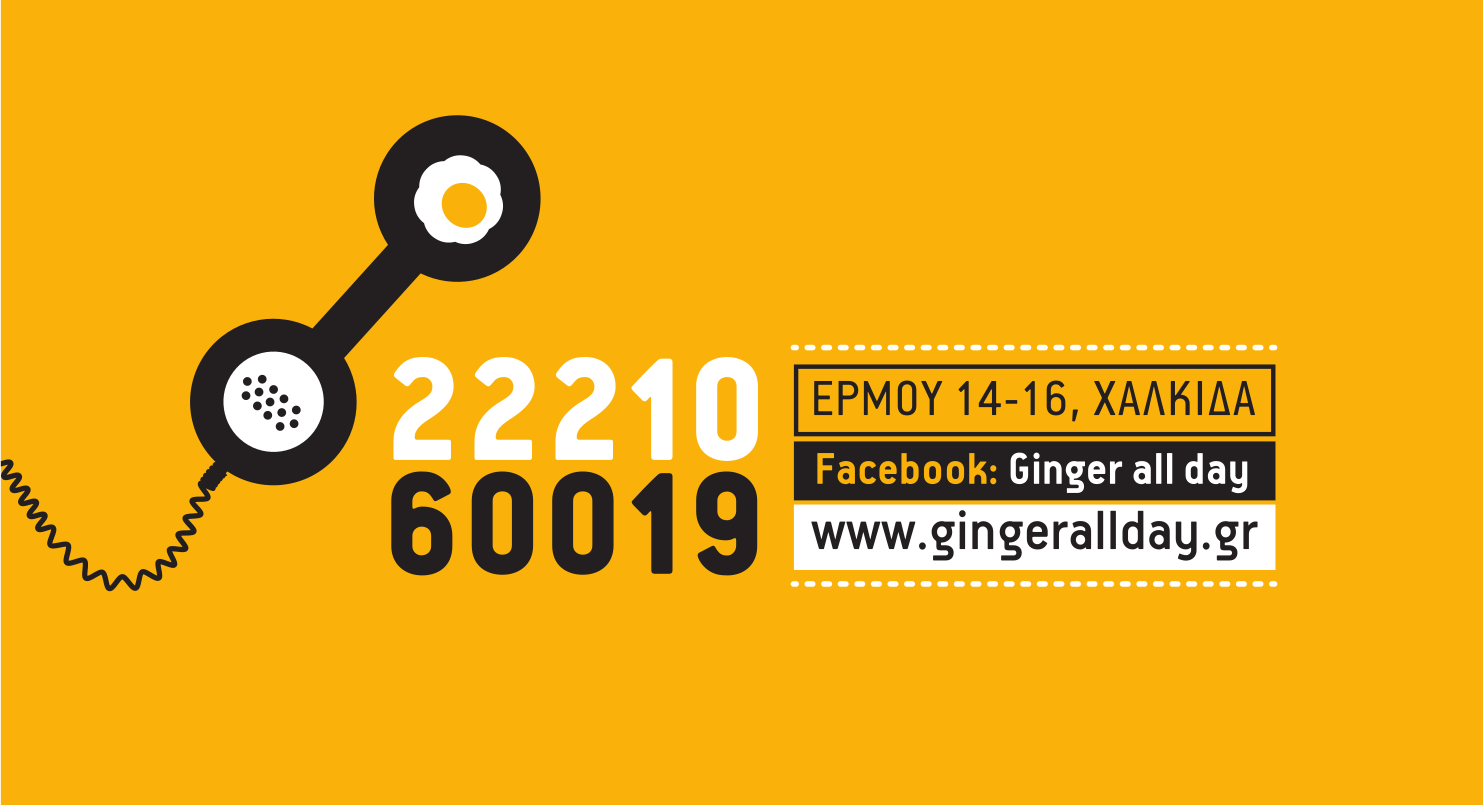
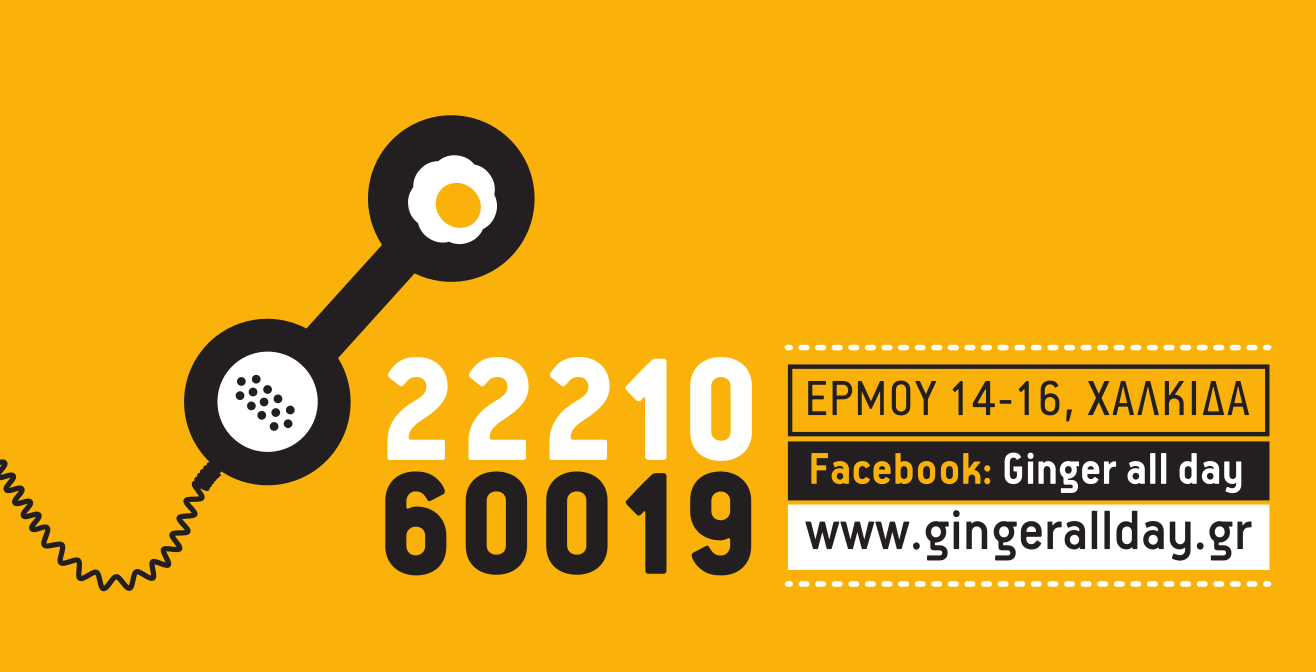
update

Changed region(s): [[0.0, 0.125, 0.9658, 0.875], [0.0, 0.5625, 0.0312, 0.6562]]

diff --git a/index.html b/index.html
@@ -27,19 +27,21 @@
     </div>
     <div class="card bg-warning border-0 card-cap mt-1">
       <div class="card-body">
-        <img src="img/tag.png" class="img-fluid" alt="ginger all day">
-        Λαχταριστές ομελέτες από το πρωί,<br>
-        δροσερές σαλάτες,<br>
-        χειροποίητα σάντουιτς με φρυγανισμένο ψωμί,<br>
-        burgers, γλυκίσματα +<br>
-        <h2 class="my-3"><strong>μοναδικές ποικιλίες καφέ</strong></h2>
-        έρχονται και στο χώρο σου!
+        <div class="col-md-6 ml-auto">
+          <img src="img/tag.png" class="img-fluid" alt="ginger all day">
+          Λαχταριστές ομελέτες από το πρωί,<br>
+          δροσερές σαλάτες,<br>
+          χειροποίητα σάντουιτς με φρυγανισμένο ψωμί,<br>
+          burgers, γλυκίσματα +<br>
+          <h2 class="my-3"><strong>μοναδικές ποικιλίες καφέ</strong></h2>
+          έρχονται και στο χώρο σου!
+        </div>
       </div>
     </div>
     <div class="card mt-1 mb-5 bg-white border-0 bg-phone">
       <div class="card-body p-0">
-        <div class="text-right pt-5 pr-5">
-          <h4 class="bg-white px-4 py-2 border border-dark d-inline-block" style="width:305px;cursor:pointer;" data-glf-cuid="31559792-08d4-4547-bd64-9d955fa58e9f" data-glf-ruid="ee9dccdf-eeb6-40f5-8dd4-0f6da8c518e3">
+        <div class="text-center pt-4 col-md-5 ml-auto mr-2">
+          <h4 class="px-4 py-2 border border-dark d-inline-block" style="cursor:pointer;" data-glf-cuid="31559792-08d4-4547-bd64-9d955fa58e9f" data-glf-ruid="ee9dccdf-eeb6-40f5-8dd4-0f6da8c518e3">
             <strong>δείτε τον κατάλογο και παραγγείλτε online</strong>
           </h4>
           <script src="https://www.fbgcdn.com/widget/js/ewm2.js" defer async ></script>

diff --git a/css/main.css b/css/main.css
@@ -9,10 +9,15 @@ body {
   max-width: 800px;
 }
 
+@media only screen and (min-width: 600px) {
+  .card-cap {
+    background: url('../img/cap.png') -50px 0 no-repeat;
+    background-size: 480px !important;
+  }
+}
+
 .card-cap {
-  background: url('../img/cap.png') -50px 0 no-repeat #f9b10b !important;
-  background-size: 480px !important;
-  padding-left: 400px;
+  background-color: #f9b10b !important;
   padding-bottom: 50px;
   font-size: 1.2em;
 }
@@ -28,9 +33,10 @@ body {
 }
 
 .bg-phone {
-  height: 500px;
-  background: url('../img/phone.png') center;
-  background-size: cover;
+  height: 400px;
+  background: url('../img/phone.png') center 100% no-repeat;
+  background-color: #f9b10b !important;
+  background-size: 100%;
 }
 
 .border-dark {
